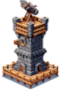
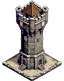
map clean up - time to clean up the code

diff --git a/scenes/utils/preloadAssets.js b/scenes/utils/preloadAssets.js
@@ -1,22 +1,16 @@
 // scenes/utils/preloadAssets.js
 
-export function preloadAssets() {
-  this.player_w = 64;
-  this.player_h = 64;
-  this.tile_w = 64;
-  this.tile_h = 90;
+export function preloadAssets(scene) {
+  scene.load.image('forestTree', 'items/forest_tree.png');
+  scene.load.image('grass_tile', 'tiles/basic_tile.png');
+  scene.load.image('shrubsheet', 'items/shrubsheet.png');
+  scene.load.image('tower1', 'towers/tower.png');
 
-  this.load.image('tiles', 'tiles/tiles_1.png');
-  this.load.image('hex_sheet', 'tiles/hex_tilesheet.png');
-  this.load.image('brown_tree', 'items/brown_tree.png');
-  this.load.image('tower', 'towers/brick_house_2.png');
-  this.load.image('flags', 'items/flags-sprites.png');
+  scene.load.tilemapTiledJSON('map', '../../resources/hexMap.json');
 
-  this.load.tilemapTiledJSON('map', '../../resources/hexMap.json');
-
-  this.load.spritesheet('glow', 'cards/glow.png', { frameWidth: this.player_w, frameHeight: this.player_h });
-  this.load.spritesheet('heat', 'cards/heat.png', { frameWidth: this.player_w, frameHeight: this.player_h });
-  this.load.spritesheet('pink', 'cards/pink.png', { frameWidth: this.player_w, frameHeight: this.player_h });
-  this.load.spritesheet('sonny', 'cards/sonny.png', { frameWidth: this.player_w, frameHeight: this.player_h });
-  this.load.spritesheet('rat', 'cards/rat.png', { frameWidth: this.player_w, frameHeight: this.player_h });
+  scene.load.spritesheet('glow', 'cards/glow.png', { frameWidth: scene.player_w, frameHeight: scene.player_h });
+  scene.load.spritesheet('heat', 'cards/heat.png', { frameWidth: scene.player_w, frameHeight: scene.player_h });
+  scene.load.spritesheet('pink', 'cards/pink.png', { frameWidth: scene.player_w, frameHeight: scene.player_h });
+  scene.load.spritesheet('sonny', 'cards/sonny.png', { frameWidth: scene.player_w, frameHeight: scene.player_h });
+  scene.load.spritesheet('rat', 'cards/rat.png', { frameWidth: scene.player_w, frameHeight: scene.player_h });
 }

diff --git a/scenes/utils/SetupMap.js b/scenes/utils/SetupMap.js
@@ -3,14 +3,13 @@
 export function setupMap() {
   const map = this.make.tilemap({ key: "map" });
 
-  const tiles = map.addTilesetImage('tiles_1', 'tiles');
-  const hex_sheet = map.addTilesetImage('hex_sheet', 'hex_sheet');
-  const brown_tree = map.addTilesetImage('brown_tree', 'brown_tree');
-  const tower = map.addTilesetImage('brick_house_2', 'tower');
-  const flags = map.addTilesetImage('flags', 'flags');
+  const tiles = map.addTilesetImage('grass_tile', 'grass_tile');
+  const forestTree = map.addTilesetImage('forestTree', 'forestTree');
+  const shrubsheet = map.addTilesetImage('shrubsheet', 'shrubsheet');
+  const tower = map.addTilesetImage('tower1', 'tower1');
 
-  const bgLayer = map.createLayer('tiles', [tiles, hex_sheet, brown_tree, tower, flags], 0, 0);
-  const object1 = map.createLayer('object1', [tiles, hex_sheet, brown_tree, tower, flags], 0, 0);
+  const bgLayer = map.createLayer('tiles', [tiles, forestTree, shrubsheet, tower], 0, 0);
+  const object1 = map.createLayer('object1', [tiles, forestTree, shrubsheet, tower], 0, 0);
 
   // Ensure bgLayer and object1 layers are defined and part of the map
   if (!bgLayer || !object1) {

diff --git a/scenes/GameScene.js b/scenes/GameScene.js
@@ -18,7 +18,7 @@ class GameScene extends Phaser.Scene {
   }
 
   preload() {
-    preloadAssets.call(this);
+    preloadAssets(this);
   }
 
   create() {
@@ -40,6 +40,9 @@ class GameScene extends Phaser.Scene {
 
     // Integrate the createCards function
     createCards(this);
+  }
+
+  update() {
   }
 }
 export default GameScene;

diff --git a/README.md b/README.md
@@ -1,4 +1,4 @@
 # bash-royale
-I strategic tower defense game. Uses Vite/JS, Phaser and WebGL (for now...)
+A strategic tower defense game. Uses Vite/JS, Phaser and WebGL and free online graphics. This proejct is meant for fun and just to learn more about game development.
 
-****![image](https://github.com/smithd36/bash-royale/assets/90289165/8622199d-2ec6-451f-8450-570d708bb64b)
+![image](https://github.com/smithd36/bash-royale/assets/90289165/8622199d-2ec6-451f-8450-570d708bb64b)
